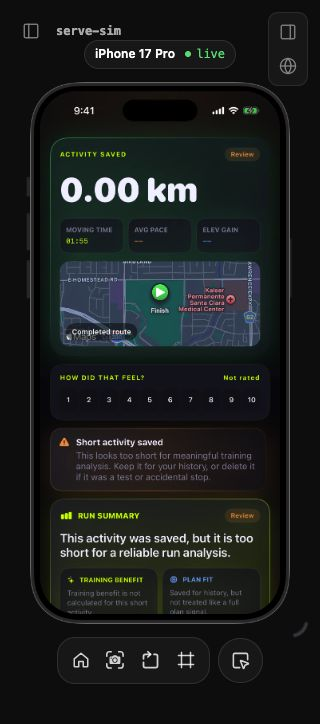
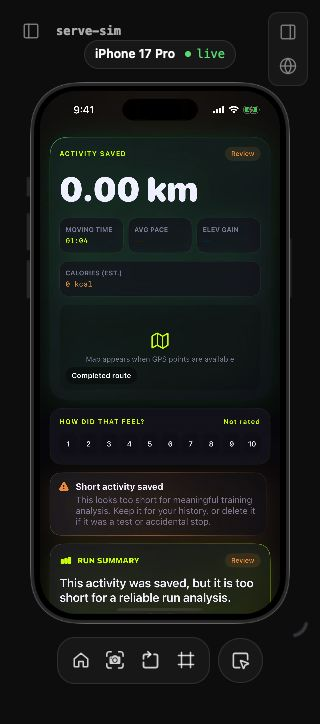
docs(run): record Release B review and final simulator evidence

diff --git a/docs/qa/reports/record-run-release-b-2026-10-22/README.md b/docs/qa/reports/record-run-release-b-2026-10-22/README.md
@@ -1,5 +1,7 @@
 # Record-a-run Release B QA — 22 October 2026
 
+Draft review: [PR #163](https://github.com/nadavyigal/IOS-runsmart-light-app-/pull/163), implementation `50facbc`, pushed.
+
 ## Scope and build
 
 S4–S8 from `tasks/plan-record-run-ux-2026-10-22.md`. Separate branch `codex/2026-10-22-record-run-release-b` based on Release A S2 (`15e9edf`). Claude retains S3 ownership; its remote still ends at S2 at the last check. Merge the finished Release A into this branch and recheck the Start anyway path before merging Release B.
@@ -13,6 +15,7 @@ Local speech lets the system manage its per-utterance audio session with [`usesA
 - Focused suite: **21 passed, 0 failed, 0 skipped**, includes cue cadence/preferences, exact milestone interpolation, auto-pause recorder integration, calorie persistence, long-route camera following and pause-segment preservation. See `focused-tests.json`.
 - Full suite: **518 passed, 0 failed, 0 skipped**. Includes an additional moving-time rollback regression so auto-pause cannot replay a five-minute cue. See `full-tests.json`.
 - Final review: clamped delayed-GPS pause starts to the actual run start and nonnegative resume duration; added a recorder regression. Final full rerun passed all 518 tests after these changes; targeted auto-pause suite passed 5/5 (`delayed-gps-tests.json`).
+- Final caption-only typography adjustment after the full suite: separate simulator build passed; maximum-text Stats/controls inspected (`dynamic-type-stats.png`). Compact GPS stays compact and Hold to finish wraps fully. The decorative state subtitle still truncates at the maximum text size; recording state, timer, metrics and controls remain visible. Simulator text size restored to Large.
 - `git diff --check` passed.
 
 Reproduction:
@@ -33,7 +36,7 @@ Demo mode bypasses auth, production analytics and backend writes. Location is sy
 - Save completes to **Activity saved**; very short demo activity is honestly marked review-only.
 - Stats and Map picker navigation works. Map renders, centers the current fix above its metrics card, and occupies approximately two-thirds of the visible live screen at default text size.
 - Empty-weight state shows no fabricated calories. Settings offer optional Health weight or local manual kg.
-- Evidence: final `stats.png` (synthetic 70 kg), plus `map.png`, `end-sheet.png`, `saved-demo.png` (the latter three captured before final metric reordering).
+- Evidence: final `stats.png` (synthetic 70 kg), plus final `saved-demo.png` (saved zero-distance estimate), `map.png` and `end-sheet.png` (the latter two captured before final metric reordering).
 
 ## Independent review and fixes
 
@@ -41,7 +44,7 @@ Independent reviewer identified and rechecked: manual-pause Resume behavior; rec
 
 ## Physical checks still required
 
-Guest airplane-mode spoken milestones, locked-phone start/pause/resume/finish speech, Spotify volume between cues, Bluetooth audio, continuous background/automatic-resume behavior and a real 10 km route. Health body-mass permission and unavailable/denied handling need a physical device. VoiceOver action is implemented but its spoken interaction has not been exercised. A new iPhone SE simulator stalled during first boot (BackBoard, then audio/keychain data migration); a concurrent test-host startup timed out, so that interrupted attempt is not counted as a test result. The temporary SE was shut down and deleted. Small-screen and maximum Dynamic Type runtime smoke remain open; the Stats page scrolls by construction. No iOS 26.3 runtime is installed.
+Guest airplane-mode spoken milestones, locked-phone start/pause/resume/finish speech, Spotify volume between cues, Bluetooth audio, continuous background/automatic-resume behavior and a real 10 km route. Health body-mass permission and unavailable/denied handling need a physical device. VoiceOver action is implemented but its spoken interaction has not been exercised. A new iPhone SE simulator stalled during first boot (BackBoard, then audio/keychain data migration); a concurrent test-host startup timed out, so that interrupted attempt is not counted as a test result. The temporary SE was shut down and deleted. Small-screen runtime smoke and the Map page at maximum Dynamic Type remain open; the Stats page scrolls by construction and its maximum-text controls were inspected. No iOS 26.3 runtime is installed.
 
 ## Release recommendation
 

diff --git a/tasks/progress.md b/tasks/progress.md
@@ -1,8 +1,9 @@
 ## 2026-10-22 — Record-a-run Release B (Codex, separate from Claude Release A)
 
+**Review:** Draft PR #163 — https://github.com/nadavyigal/IOS-runsmart-light-app-/pull/163; implementation commit `50facbc` pushed.
 **Scope:** S4 offline on-device cues and real settings; S5 default-on auto-pause; S6 hold-to-finish and one Save/Resume/Discard sheet; S7 Stats/Map pages with latest-fix following; S8 optional-weight active-calorie estimate, live and saved summary.
 **Branch/worktree:** `codex/2026-10-22-record-run-release-b`, `/Users/nadavyigal/Developer/runsmart-ios-worktrees/record-run-release-b`, based on S2 `15e9edf`. Claude's active Release A checkout was not changed.
-**Validation:** Final full simulator suite 518 passed / 0 failed / 0 skipped. Finish tap/hold, pause/resume, end sheet and demo save visually verified. Independent review findings fixed. Final metric-order/label and delayed-GPS fixes are included in that run. Small-screen simulator boot stalled; temporary device removed and that smoke remains pending.
+**Validation:** Final full simulator suite 518 passed / 0 failed / 0 skipped. Finish tap/hold, pause/resume, end sheet and demo save visually verified. Independent review findings fixed. Final caption-only typography adjustment passed a separate simulator build and maximum-text Stats smoke. Final metric-order/label and delayed-GPS fixes are included in that run. Small-screen simulator boot stalled; temporary device removed and that smoke remains pending.
 **Handoff:** `docs/qa/reports/record-run-release-b-2026-10-22/README.md`. S3 remains Claude-owned; integrate finished Release A and recheck its Start anyway branch before merging B. Physical locked-phone/offline/audio/background-GPS checks remain. No upload, submission, release or Release C work.
 
 ## 2026-10-22: Record-a-run Release A (branch claude/2026-10-22-record-run-release-a)

diff --git a/tasks/session-log.md b/tasks/session-log.md
@@ -8,6 +8,8 @@ Final full XCTest/Swift Testing run: **518 passed / 0 failed / 0 skipped**, iPho
 
 Independent review caught manual-pause sheet Resume, recovery/weight presentation priority, stationary callback filtering, exact milestone interpolation, stale AI callbacks, skipped route segment markers, and delayed fixes predating run start. All fixed. Retrospective: isolation protected Claude's work and review found cross-story edge cases; keep simulator boot and test startup sequential. No skill changes made.
 
+Review: implementation `50facbc` pushed; draft PR #163 (https://github.com/nadavyigal/IOS-runsmart-light-app-/pull/163). Final caption-only adjustment built successfully and Stats/controls were visually checked at maximum Dynamic Type; simulator text size restored afterwards.
+
 Handoff: integrate Claude S3 before merging, recheck Start anyway + start speech, then perform guest airplane-mode/locked-phone/Spotify/Bluetooth/background GPS, small-screen/maximum Dynamic Type and VoiceOver smoke. No Release C, store upload, submission or release.
 
 ## 2026-10-17 — Distribution IPA export completed

diff --git a/tasks/todo.md b/tasks/todo.md
@@ -7,7 +7,7 @@
 - [x] S8 estimated calories — reference equation, fallback/persistence and legacy decoding passed
 - [x] Final full suite 518/0; simulator core smoke; independent review fixes
 - [ ] Integrate Claude S3, verify Start anyway cue, and complete device + small-screen/VoiceOver smoke
-- [ ] Push and draft PR
+- [x] Pushed implementation `50facbc`; draft PR #163 stacked on Release A
 
 Plan: `tasks/record-run-release-b.md`. Isolated branch `codex/2026-10-22-record-run-release-b`, base S2 `15e9edf`.
 
